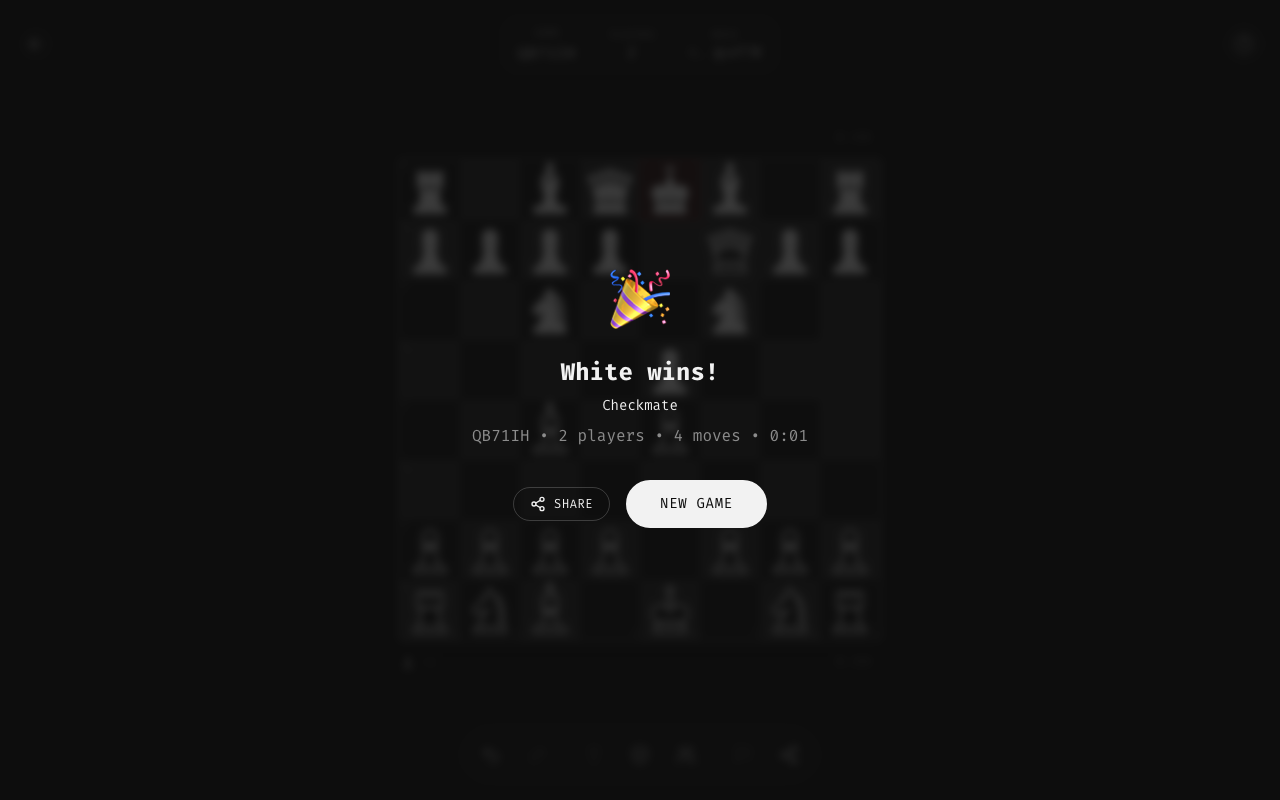
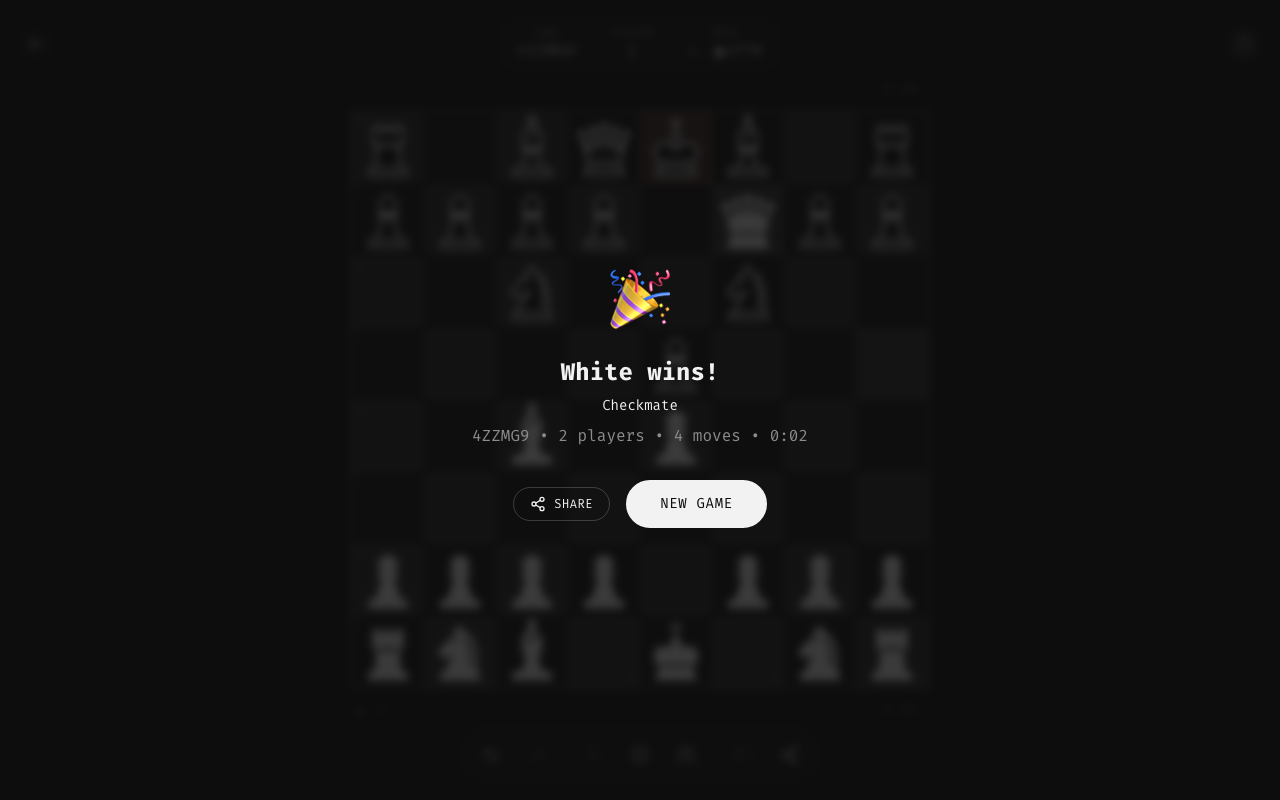
Keep chess colors in dark mode, keep the checkerboard under highlights, enlarge the desktop board
White pieces now always use the lighter ink and light squares are always the
lighter tone, so dark mode no longer looks like black moves first. Last-move
and selection fills are half the square step, so a highlighted square never
matches the other color. The cell cap rises from 76px to 96px and the portrait
chrome reserve from 20rem to 14rem.

diff --git a/src/components/board/board-lib.test.tsx b/src/components/board/board-lib.test.tsx
@@ -20,6 +20,8 @@ import {
 } from './geometry';
 import { PieceIcon } from './PieceIcon';
 import { PIECE_SHAPES, pieceSvgMarkup, strokeForSize } from './pieceShapes';
+import { BoardSquare } from './Square';
+import { readFileSync } from 'node:fs';
 
 const tr = (lang: Language): Translate => (key, vars) => translate(lang, key, vars);
 const t = tr('en');
@@ -136,15 +138,16 @@ describe('describe', () => {
 });
 
 describe('pieces', () => {
-  it('has six shapes, white outlined and black solid, drawn with theme tokens', () => {
+  it('has six shapes, white filled light and black filled dark in both themes, outlined in foreground', () => {
     expect(Object.keys(PIECE_SHAPES).sort()).toEqual(['b', 'k', 'n', 'p', 'q', 'r']);
     const { container, rerender } = render(<PieceIcon type="n" color="w" />);
     const body = container.querySelector('path')!;
-    expect(body.getAttribute('fill')).toBe('hsl(var(--background))');
+    expect(body.getAttribute('fill')).toBe('hsl(var(--zhess-ink-light))');
     expect(body.getAttribute('stroke')).toBe('hsl(var(--foreground))');
     expect(container.querySelector('svg')).toHaveAttribute('aria-hidden', 'true');
     rerender(<PieceIcon type="n" color="b" title="black knight" />);
-    expect(container.querySelector('path')!.getAttribute('fill')).toBe('hsl(var(--foreground))');
+    expect(container.querySelector('path')!.getAttribute('fill')).toBe('hsl(var(--zhess-ink-dark))');
+    expect(container.querySelector('path')!.getAttribute('stroke')).toBe('hsl(var(--foreground))');
     expect(screen.getByRole('img', { name: 'black knight' })).toBeInTheDocument();
   });
 
@@ -157,6 +160,35 @@ describe('pieces', () => {
     expect(svg).toMatch(/^<svg xmlns="http:\/\/www.w3.org\/2000\/svg"/);
     expect(svg).toContain('fill="#0d0d0d"');
     expect(svg).toContain('width="64"');
+  });
+});
+
+describe('square tones', () => {
+  const css = readFileSync('src/index.css', 'utf8');
+  const block = (selector: string) => css.slice(css.indexOf(`${selector} {`), css.indexOf('}', css.indexOf(`${selector} {`)));
+
+  it('light squares are the lighter ones in both themes: the foreground step moves to the light squares in dark', () => {
+    expect(block(':root, .light')).toMatch(/--zhess-sq-light: transparent;[\s\S]*--zhess-sq-dark: hsl\(var\(--foreground\) \/ 0\.1\);/);
+    expect(block('.dark')).toMatch(/--zhess-sq-light: hsl\(var\(--foreground\) \/ 0\.1\);[\s\S]*--zhess-sq-dark: transparent;/);
+    expect(block(':root, .light')).toMatch(/--zhess-ink-light: var\(--background\)/);
+    expect(block('.dark')).toMatch(/--zhess-ink-light: var\(--foreground\)/);
+  });
+
+  it('the last-move and selection fills are half the checker step, so a highlighted square never matches the other color', () => {
+    const tones = (light: boolean, state: { lastMove?: boolean; selected?: boolean }) => {
+      const { container, unmount } = render(<BoardSquare square="e2" piece={null} light={light} label="e2" focusable={false} {...state} />);
+      const bg = (container.firstElementChild as HTMLElement).style.backgroundImage;
+      unmount();
+      return bg;
+    };
+    for (const light of [true, false]) {
+      expect(tones(light, {})).toContain(`var(--zhess-sq-${light ? 'light' : 'dark'})`);
+      for (const state of [{ lastMove: true }, { selected: true }]) {
+        const bg = tones(light, state);
+        expect(bg).toContain('hsl(var(--foreground) / 0.05)');
+        expect(bg).not.toMatch(/--foreground\) \/ 0\.(1|15)\)/);
+      }
+    }
   });
 });
 

diff --git a/src/components/board/pieceShapes.ts b/src/components/board/pieceShapes.ts
@@ -92,22 +92,33 @@ export interface PiecePaint {
 
 export const FOREGROUND = 'hsl(var(--foreground))';
 export const BACKGROUND = 'hsl(var(--background))';
+/** The lighter and the darker of foreground and background in the current theme (src/index.css). */
+export const INK_LIGHT = 'hsl(var(--zhess-ink-light))';
+export const INK_DARK = 'hsl(var(--zhess-ink-dark))';
 
-/** White: background fill + foreground outline. Black: foreground fill + background details. */
-export function piecePaint(color: Color, fg = FOREGROUND, bg = BACKGROUND): PiecePaint {
-  return color === 'w' ? { fill: bg, stroke: fg, contrast: fg } : { fill: fg, stroke: fg, contrast: bg };
+/**
+ * White pieces are light and black pieces dark in both themes; only the outline follows the
+ * surface (`stroke` contrasts with it). On a light surface white reads as an outline and black as
+ * a solid shape; on a dark surface white is solid and black an outline.
+ */
+export function piecePaint(color: Color, stroke = FOREGROUND, light = INK_LIGHT, dark = INK_DARK): PiecePaint {
+  return color === 'w' ? { fill: light, stroke, contrast: dark } : { fill: dark, stroke, contrast: light };
 }
 
 /**
  * Standalone SVG markup of a piece, for scripts (app icon, OG image) and tests.
- * Pass literal colors (e.g. `#0d0d0d`, `#fafafa`) where CSS variables are not available.
+ * Pass literal colors of a light surface (e.g. `fg: '#0d0d0d'`, `bg: '#fafafa'`) where CSS variables
+ * are not available; without them the piece follows the theme.
  */
 export function pieceSvgMarkup(
   type: PieceType,
   color: Color,
   opts: { size?: number; fg?: string; bg?: string; strokeWidth?: number } = {},
 ): string {
-  const paint = piecePaint(color, opts.fg ?? FOREGROUND, opts.bg ?? BACKGROUND);
+  const paint =
+    opts.fg || opts.bg
+      ? piecePaint(color, opts.fg ?? FOREGROUND, opts.bg ?? BACKGROUND, opts.fg ?? FOREGROUND)
+      : piecePaint(color);
   const sw = opts.strokeWidth ?? strokeForSize(opts.size);
   const size = opts.size ? ` width="${opts.size}" height="${opts.size}"` : '';
   const parts = PIECE_SHAPES[type]

diff --git a/src/components/board/Square.tsx b/src/components/board/Square.tsx
@@ -5,6 +5,7 @@
 import { memo, type CSSProperties } from 'react';
 import { cn } from '@/lib/utils';
 import type { Piece, Square } from '@/lib/types';
+import { HIGHLIGHT_ALPHA } from './geometry';
 import { PieceIcon } from './PieceIcon';
 
 export interface BoardSquareProps {
@@ -41,6 +42,13 @@ export interface BoardSquareProps {
 const tint = (alphaColor: string) => `linear-gradient(${alphaColor}, ${alphaColor})`;
 const FG = (a: number) => `hsl(var(--foreground) / ${a})`;
 const RED = (a: number) => `hsl(var(--destructive) / ${a})`;
+/**
+ * Light and dark squares differ by a `foreground/10` overlay, placed on the dark squares in the
+ * light theme and on the light squares in the dark theme (src/index.css), so light squares are
+ * the lighter ones in both. Grey state fills use half that step: a highlighted square lands
+ * between the two square tones and never matches the other color, so the checkerboard holds.
+ */
+const SQUARE_TONE = (light: boolean) => `var(--zhess-sq-${light ? 'light' : 'dark'})`;
 
 export const BoardSquare = memo(function BoardSquare({
   square,
@@ -67,13 +75,13 @@ export const BoardSquare = memo(function BoardSquare({
   const overlays: string[] = [];
   if (threat) overlays.push(tint(RED(0.1)));
   if (check) overlays.push(tint(RED(0.15)));
-  if (selected) overlays.push(tint(FG(0.15)));
-  if (lastMove) overlays.push(tint(FG(0.1)));
-  if (!light) overlays.push(tint(FG(0.1)));
+  if (selected) overlays.push(tint(FG(HIGHLIGHT_ALPHA)));
+  if (lastMove) overlays.push(tint(FG(HIGHLIGHT_ALPHA)));
+  overlays.push(tint(SQUARE_TONE(light)));
   const style: CSSProperties = {
     width: 'var(--cell-size)',
     height: 'var(--cell-size)',
-    backgroundImage: overlays.length ? overlays.join(', ') : undefined,
+    backgroundImage: overlays.join(', '),
   };
 
   return (

diff --git a/src/components/board/BoardThumbnail.tsx b/src/components/board/BoardThumbnail.tsx
@@ -5,7 +5,7 @@
 import { memo, useMemo } from 'react';
 import { cn } from '@/lib/utils';
 import type { Color, Square } from '@/lib/types';
-import { cellToSquare, isLightSquare, parseFenBoard, squareToCell } from './geometry';
+import { HIGHLIGHT_ALPHA, cellToSquare, isLightSquare, parseFenBoard, squareToCell } from './geometry';
 import { PIECE_SHAPES, partStyle, piecePaint, strokeForSize } from './pieceShapes';
 
 export interface BoardThumbnailProps {
@@ -36,11 +36,12 @@ export const BoardThumbnail = memo(function BoardThumbnail({
   for (let row = 0; row < 8; row++) {
     for (let col = 0; col < 8; col++) {
       const sq = cellToSquare(col, row, orientation) as Square;
-      const tints: number[] = [];
-      if (!isLightSquare(sq)) tints.push(0.1);
-      if (lastMove && (lastMove.from === sq || lastMove.to === sq)) tints.push(0.1);
-      tints.forEach((a, i) =>
-        cells.push(<rect key={`${sq}-${i}`} x={col * 100} y={row * 100} width={100} height={100} fill="hsl(var(--foreground))" fillOpacity={a} />),
+      const tints: string[] = [];
+      // Square tones and the half-step last-move tint as on the board (Square.tsx).
+      tints.push(`var(--zhess-sq-${isLightSquare(sq) ? 'light' : 'dark'})`);
+      if (lastMove && (lastMove.from === sq || lastMove.to === sq)) tints.push(`hsl(var(--foreground) / ${HIGHLIGHT_ALPHA})`);
+      tints.forEach((fill, i) =>
+        cells.push(<rect key={`${sq}-${i}`} x={col * 100} y={row * 100} width={100} height={100} fill={fill} />),
       );
     }
   }

diff --git a/src/pages/stage.ts b/src/pages/stage.ts
@@ -26,15 +26,15 @@ export const TRANSITION_MS = 500;
 export const SWIPE_MIN_PX = 40;
 
 /**
- * Board cell size. DESIGN 5.1's `clamp(34px, min(11.5vw, 10vh), 76px)`, with one more bound in
- * portrait: 20rem of height stay free for the chrome, so on short desktop windows the info pill,
- * the two player strips and the toolbar never overlap the board in a game, and the start screen's
- * header and footer barely touch the blurred preview. The board keeps one size in every state, so
+ * Board cell size. DESIGN 5.1's `clamp(34px, min(11.5vw, 10vh), 96px)`, with one more bound in
+ * portrait: 14rem of height stay free for the chrome, so on desktop windows the info pill, the two
+ * player strips and the toolbar never overlap the board in a game. On the start screen the header
+ * and footer may cover the edge of the blurred preview. The board keeps one size in every state, so
  * it never moves. Phones are limited by width (11.5vw) and are unaffected. Mobile landscape has the
  * chrome in side rails, so only the height of the screen limits the board there.
  */
-export const CELL_SIZE_PORTRAIT = 'clamp(34px, min(11.5vw, 10vh, calc((100dvh - 20rem) / 8)), 76px)';
-export const CELL_SIZE_LANDSCAPE = 'clamp(34px, calc((100dvh - 3rem) / 8), 76px)';
+export const CELL_SIZE_PORTRAIT = 'clamp(34px, min(11.5vw, 10vh, calc((100dvh - 14rem) / 8)), 96px)';
+export const CELL_SIZE_LANDSCAPE = 'clamp(34px, calc((100dvh - 3rem) / 8), 96px)';
 
 export const other = (c: Color): Color => (c === 'w' ? 'b' : 'w');
 

diff --git a/src/components/board/PieceIcon.tsx b/src/components/board/PieceIcon.tsx
@@ -5,7 +5,7 @@
  */
 import { memo, type CSSProperties } from 'react';
 import type { Color, PieceType } from '@/lib/types';
-import { BACKGROUND, FOREGROUND, PIECE_SHAPES, partStyle, piecePaint, strokeForSize } from './pieceShapes';
+import { BACKGROUND, PIECE_SHAPES, partStyle, piecePaint, strokeForSize } from './pieceShapes';
 
 export interface PieceIconProps {
   readonly type: PieceType;
@@ -16,7 +16,7 @@ export interface PieceIconProps {
   readonly strokeWidth?: number;
   readonly className?: string;
   readonly style?: CSSProperties;
-  /** Swap foreground and background, for a piece drawn on an inverted (`bg-foreground`) surface. */
+  /** Outline in `background`, for a piece drawn on an inverted (`bg-foreground`) surface. */
   readonly inverted?: boolean;
   /** Accessible name. Without it the icon is decorative (`aria-hidden`). */
   readonly title?: string;
@@ -32,7 +32,7 @@ export const PieceIcon = memo(function PieceIcon({
   inverted,
   title,
 }: PieceIconProps) {
-  const paint = inverted ? piecePaint(color, BACKGROUND, FOREGROUND) : piecePaint(color);
+  const paint = inverted ? piecePaint(color, BACKGROUND) : piecePaint(color);
   const sw = strokeWidth ?? strokeForSize(size);
   return (
     <svg

diff --git a/src/index.css b/src/index.css
@@ -8,6 +8,24 @@
 /* Zhess-specific styles go below. Keep them in @layer components so utilities still win. */
 
 /*
+ * Chess colors that hold in both themes (DESIGN 5.1). White pieces are filled with the lighter ink
+ * and black pieces with the darker one; light squares are the lighter squares. Declared on the
+ * same selectors as the Ztyle tokens, so a `.light` / `.dark` subtree resolves its own values.
+ */
+:root, .light {
+  --zhess-ink-light: var(--background);
+  --zhess-ink-dark: var(--foreground);
+  --zhess-sq-light: transparent;
+  --zhess-sq-dark: hsl(var(--foreground) / 0.1);
+}
+.dark {
+  --zhess-ink-light: var(--foreground);
+  --zhess-ink-dark: var(--background);
+  --zhess-sq-light: hsl(var(--foreground) / 0.1);
+  --zhess-sq-dark: transparent;
+}
+
+/*
  * Toasts in mobile landscape (components/ui/sonner.tsx): bottom right beside the board, also on
  * phones of 600 px or less, where sonner would otherwise stretch them across the screen.
  */

diff --git a/src/components/board/geometry.ts b/src/components/board/geometry.ts
@@ -8,7 +8,10 @@ export const FILES = 'abcdefgh';
 export const BOARD_SIZE = 8;
 
 /** Default `--cell-size` (DESIGN 5.1). */
-export const DEFAULT_CELL_SIZE = 'clamp(34px, min(11.5vw, 10vh), 76px)';
+export const DEFAULT_CELL_SIZE = 'clamp(34px, min(11.5vw, 10vh), 96px)';
+
+/** Grey state fills (last move, selection): half the light/dark step, so the checkerboard holds. */
+export const HIGHLIGHT_ALPHA = 0.05;
 
 /** Column (0 left … 7 right) and row (0 top … 7 bottom) of a square as drawn. */
 export function squareToCell(sq: Square, orientation: Color): { col: number; row: number } {

diff --git a/src/components/board/types.ts b/src/components/board/types.ts
@@ -68,7 +68,7 @@ export interface ChessBoardProps {
   readonly captureKeys?: boolean;
   /** Announce each new move in a polite live region (DESIGN 14.1). Default true. */
   readonly announce?: boolean;
-  /** CSS length for `--cell-size`. Default `clamp(34px, min(11.5vw, 10vh), 76px)` (DESIGN 5.1). */
+  /** CSS length for `--cell-size`. Default `clamp(34px, min(11.5vw, 10vh), 96px)` (DESIGN 5.1). */
   readonly cellSize?: string;
   /** Extra classes on the outer wrapper (e.g. the blur of the start-screen preview). */
   readonly className?: string;

diff --git a/DESIGN.md b/DESIGN.md
@@ -183,9 +183,9 @@ There is no separate "join" flow. Typing a friend's code with the selector on `R
 
 ### 5.1 Drawing
 
-- 8×8 grid sized from one variable, `--cell-size: clamp(34px, min(11.5vw, 10vh), 76px)`, so it fits from 320 × 568 upward without scrolling. **(derived)**
-- Squares are grayscale. Light squares use `card`, dark squares use `card` with a `foreground/10` overlay. Both themes work from the same tokens.
-- Pieces are one custom SVG set of six shapes with thin, even strokes. White pieces are stroked in `foreground` and filled with `background`. Black pieces are filled with `foreground`. The contrast holds on both square colors and in both themes because fill and stroke swap together with the theme.
+- 8×8 grid sized from one variable, `--cell-size: clamp(34px, min(11.5vw, 10vh), 96px)`, so it fits from 320 × 568 upward without scrolling. In portrait, 14rem of height stays free for the info pill, the player strips and the toolbar. **(derived; cap raised from 76px by the owner after the first release)**
+- Squares are grayscale, and the light squares are the lighter ones in both themes. The two tones differ by a `foreground/10` overlay: on the dark squares in the light theme, on the light squares in the dark theme.
+- Pieces are one custom SVG set of six shapes with thin, even strokes. White pieces are filled with the lighter of `background` and `foreground`, black pieces with the darker one, in both themes, so white always looks white. The outline is always `foreground`, so it contrasts with the board: in the light theme white reads as an outline and black as a solid shape, in the dark theme white is solid and black an outline.
 - The same six SVG symbols are reused for captured pieces, thumbnails, the promotion dial, the move strip (figurine notation) and the app icon.
 - Your color is at the bottom. In a room and against the computer the board is oriented once at game start and stays.
 
@@ -198,12 +198,12 @@ The board never rotates between turns. Two seatings exist, switched by a toolbar
 
 ### 5.3 Square states
 
-In priority order, lowest first. Fills are overlays on the square color, as Ztyle requires.
+In priority order, lowest first. Fills are overlays on the square color, as Ztyle requires. Grey fills are half the light/dark step (`foreground/5`), so a highlighted square sits between the two square tones and the checkerboard stays readable.
 
 | State | Visual | Needs helpers |
 |-------|--------|---------------|
-| Last move (from and to) | `foreground/10` overlay | yes |
-| Selected piece | `foreground/15` overlay + `ring-2 ring-foreground/50` | no |
+| Last move (from and to) | `foreground/5` overlay | yes |
+| Selected piece | `foreground/5` overlay + `ring-2 ring-foreground/50` | no |
 | Legal target, empty | centered dot, `foreground/25` | yes |
 | Legal target, capture | ring around the square, `foreground/25` | yes |
 | Premove (from and to) | dashed `ring-foreground/40` | no |

diff --git a/docs/BUILD-LOG.md b/docs/BUILD-LOG.md
@@ -237,6 +237,7 @@ Nothing is switched off: every flag in `src/lib/flags.ts` is on, and no test is 
 
 For the owner:
 - Done after the run, on the owner's go-ahead: the repository is public and GitHub Pages is enabled (Actions source); the app is live at https://izzardry.github.io/zhess/. `og:image` / `twitter:image` now point at the absolute Pages URL, with `og:url` added.
+- Owner feedback after the release, fixed: in dark mode the piece fills and the square tones swapped with the theme, so white looked black (and a1 looked light); white pieces now always use the lighter ink and light squares are always the lighter tone. The last-move and selection fills dropped from `foreground/10`/`/15` to `/5`, half the square step, so highlighted squares no longer match the other color. The board cap rose from 76px to 96px, and the portrait chrome reserve from 20rem to 14rem (measured: pill, strips and toolbar need about 13rem), giving 636px instead of 540px at 1512 × 860 and 768px at 1920 × 1080. DESIGN 5.1 and 5.3 updated.
 - `npm install` reported 19 audit advisories (2 low, 14 moderate, 1 high, 2 critical) in dev/build dependencies; not addressed.
 - Build warns that the main JS chunk is 748 kB (> 500 kB). peerjs is already split out; the engine is not bundled.
 
